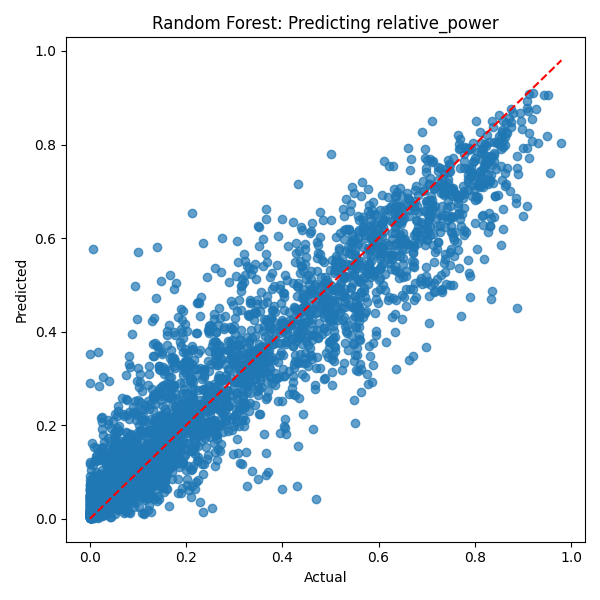
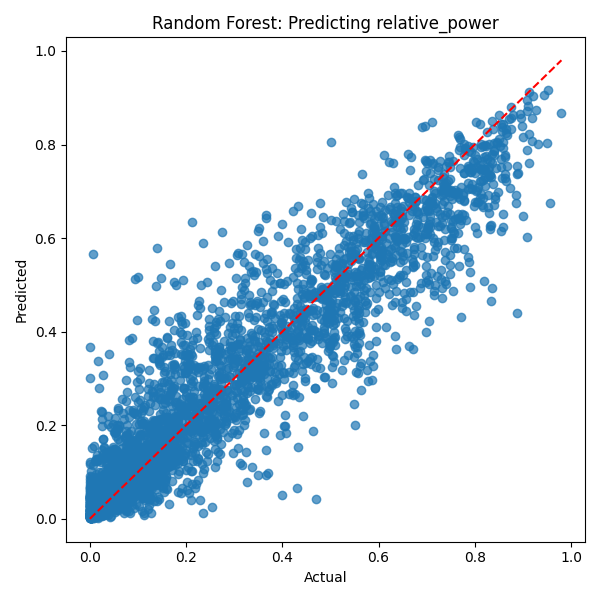
final

diff --git a/solar_energy_forecast/preprocess.py b/solar_energy_forecast/preprocess.py
@@ -43,13 +43,13 @@ def get_solar_data(verbose: bool = False) -> pd.DataFrame:
 # Create sine and cosine representations for capturing daily cycles
     df_solar['sin_time'] = np.sin(2 * np.pi * df_solar['fractional_time'] / 24)
     df_solar['cos_time'] = np.cos(2 * np.pi * df_solar['fractional_time'] / 24)
-    df_solar['clear_sky_index_GHI'] = df_solar['GHI'] / df_solar['Clearsky GHI'].replace(0, np.nan)
-    df_solar['clear_sky_index_GHI'].fillna(0, inplace=True)
+    #df_solar['clear_sky_index_GHI'] = df_solar['GHI'] / df_solar['Clearsky GHI'].replace(0, np.nan)
+    #df_solar['clear_sky_index_GHI'].fillna(0, inplace=True)
 
 # 4. Irradiance Loss Ratio:
 # Proportion of lost irradiance relative to the clear-sky condition
-    df_solar['irradiance_loss_ratio'] = (df_solar['Clearsky GHI'] - df_solar['GHI']) / df_solar['Clearsky GHI'].replace(0, np.nan)
-    df_solar['irradiance_loss_ratio'].fillna(0, inplace=True)
+    #df_solar['irradiance_loss_ratio'] = (df_solar['Clearsky GHI'] - df_solar['GHI']) / df_solar['Clearsky GHI'].replace(0, np.nan)
+    #df_solar['irradiance_loss_ratio'].fillna(0, inplace=True)
     df_solar['date_time'] = pd.to_datetime(df_solar[['Year', 'Month', 'Day', 'Hour', 'Minute']])
     df_solar.drop(columns=['Year', 'Month', 'Day', 'Hour', 'Minute'], inplace=True)
     df_solar = df_solar.set_index('date_time').sort_index()

diff --git a/main.py b/main.py
@@ -9,10 +9,10 @@ from sklearn.metrics import mean_absolute_error, mean_squared_error, r2_score
 
 from solar_energy_forecast.preprocess import get_data
 
-import tensorflow as tf
+"""import tensorflow as tf
 from tensorflow import keras
 from tensorflow.keras import layers
-from sklearn.preprocessing import StandardScaler
+from sklearn.preprocessing import StandardScaler"""
 
 def main():
     df = get_data(verbose=True)
@@ -55,7 +55,7 @@ def main():
     print(f'Mean Squared Error: {mean_squared_error(y_test, y_pred):.3f}')
     print(f'mean_absolute_error: {mean_absolute_error(y_test, y_pred):.3f}')
 
-    # Set your target column
+    """# Set your target column
     target_col = 'relative_power'  # replace this with your actual column
 
     # Prepare features and target
@@ -160,7 +160,7 @@ def main():
 
     # Print metrics
     print(f'R² Score: {r2_score(y_test, y_pred):.3f}')
-    print(f'Mean Squared Error: {mean_squared_error(y_test, y_pred):.3f}')
+    print(f'Mean Squared Error: {mean_squared_error(y_test, y_pred):.3f}')"""
 
 if __name__ == "__main__":
     pd.set_option('display.max_columns', None)
